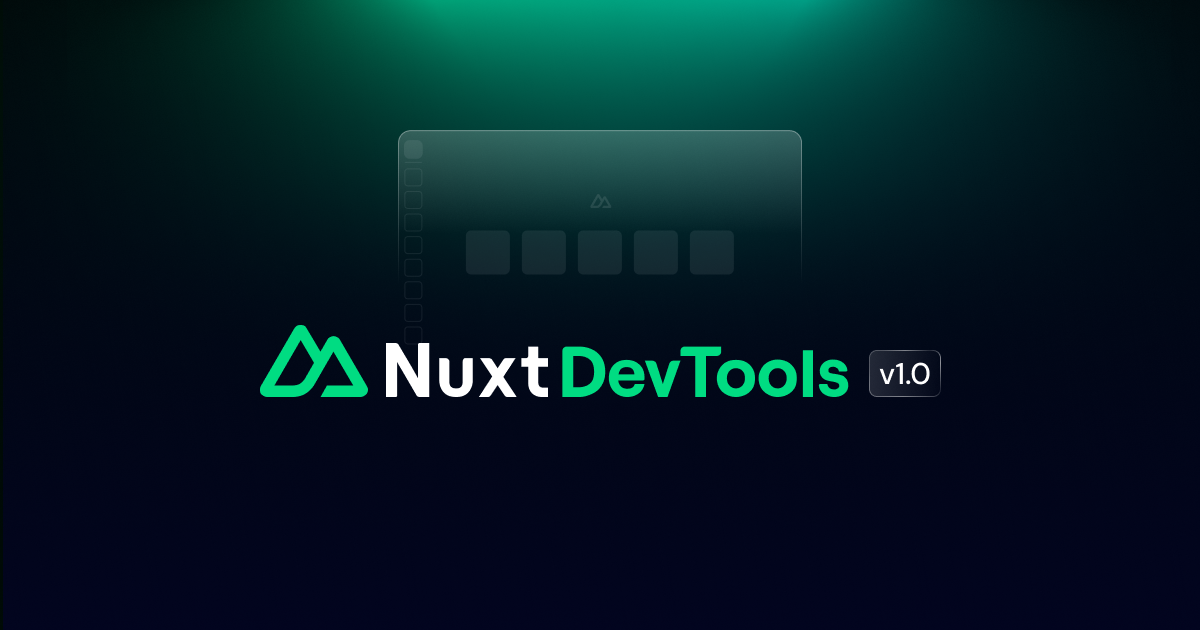
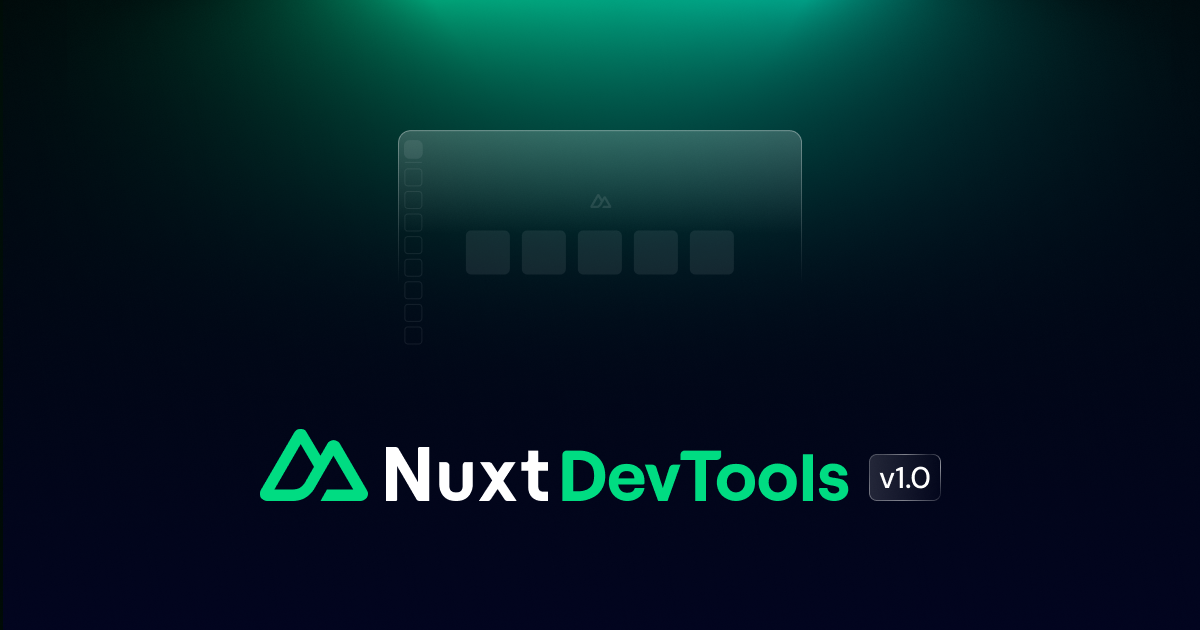
chore(blog): update blog covers Co-authored-by: SarahM19 <sarahmoriceau75@gmail.com>

Changed region(s): [[0.2158, 0.6635, 0.7708, 0.8143], [0.2158, 0.5127, 0.8017, 0.6333]]

diff --git a/content/5.blog/13.v3-6.md b/content/5.blog/13.v3-6.md
@@ -1,7 +1,7 @@
 ---
 title: 'Nuxt 3.6'
 description: "Nuxt 3.6 is out, bringing performance improvements, fully static server components, better style inlining, static presets, increased type safety - and much more."
-image: /assets/blog/v3.6.jpg
+image: /assets/blog/v3-6.png
 authors:
   - name: Daniel Roe
     avatarUrl: https://github.com/danielroe.png

diff --git a/content/5.blog/14.nuxt-on-the-edge.md b/content/5.blog/14.nuxt-on-the-edge.md
@@ -1,7 +1,7 @@
 ---
 title: 'Nuxt on the Edge'
 description: "Learn how we made Nuxt 3 capable of running on edge runtimes to run with server-side rendering close to your users."
-image: /assets/blog/nuxt-on-the-edge.jpg
+image: /assets/blog/nuxt-on-the-edge.png
 authors:
   - name: Sébastien Chopin
     avatarUrl: https://github.com/atinux.png

diff --git a/content/5.blog/12.v3-5.md b/content/5.blog/12.v3-5.md
@@ -1,7 +1,7 @@
 ---
 title: 'Nuxt 3.5'
 description: "Nuxt 3.5.0 is out, bringing Vue 3.3, new defaults, interactive server components, typed pages, environment config - and much more."
-image: /assets/blog/v3-5.webp
+image: /assets/blog/v3-5.png
 authors:
   - name: Daniel Roe
     avatarUrl: https://github.com/danielroe.png

diff --git a/content/5.blog/3.introducing-nuxt-devtools.md b/content/5.blog/3.introducing-nuxt-devtools.md
@@ -1,7 +1,7 @@
 ---
 title: 'Introducing Nuxt DevTools'
 description: 'Unleash the Developer Experience with Nuxt and understand your app better than ever.'
-image: /assets/blog/nuxt-devtools-0-3.png
+image: /assets/blog/nuxt-devtools.png
 authors:
   - name: Anthony Fu
     avatarUrl: https://github.com/antfu.png

diff --git a/content/5.blog/1.v3.md b/content/5.blog/1.v3.md
@@ -1,7 +1,7 @@
 ---
 title: Announcing 3.0
 description: 'We are thrilled to announce the first stable version of Nuxt 3.0.0'
-image: /assets/blog/default.png
+image: /assets/blog/v3.png
 authors:
   - name: Pooya Parsa
     avatarUrl: https://github.com/pi0.png
